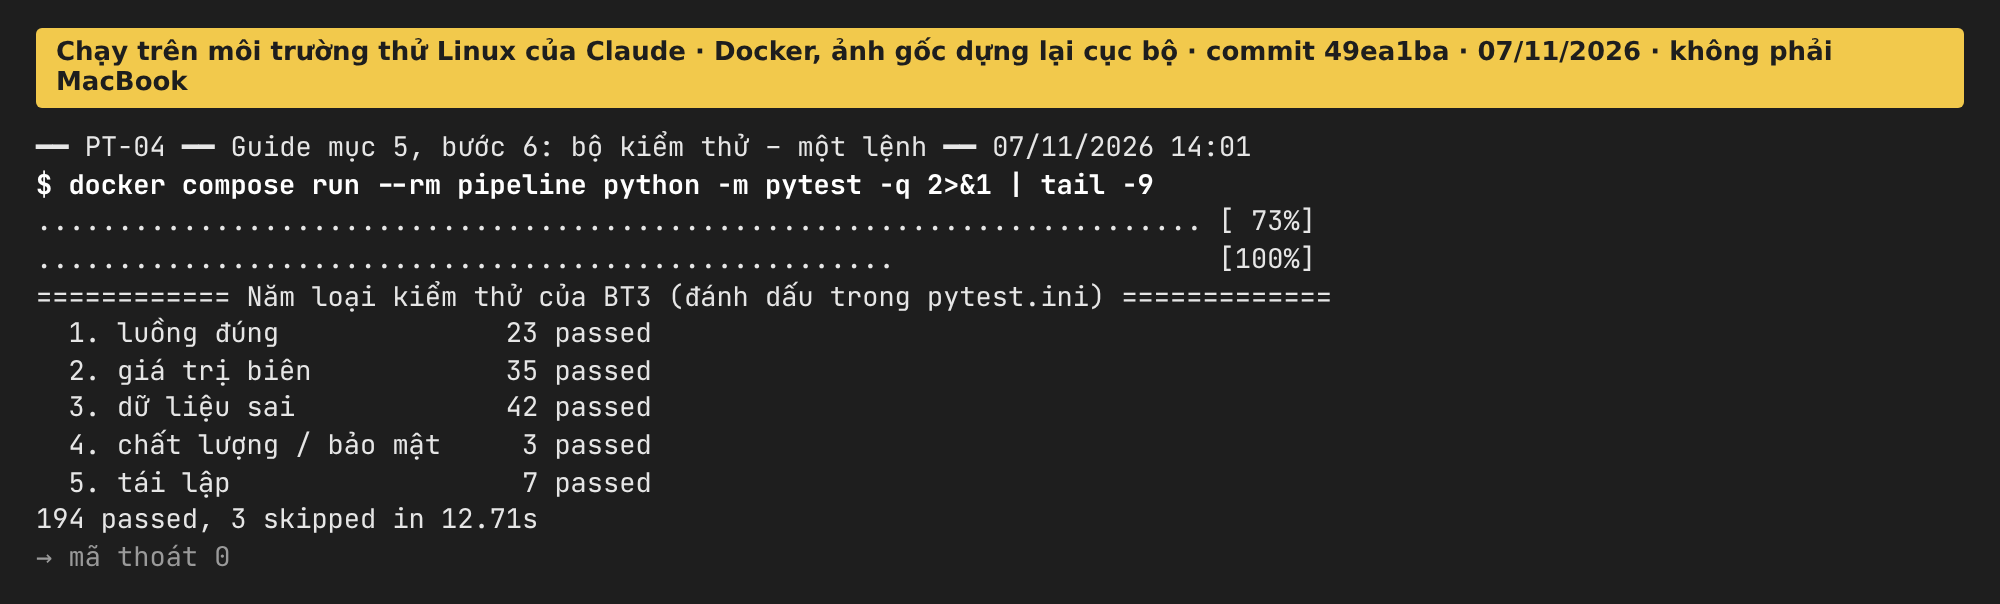
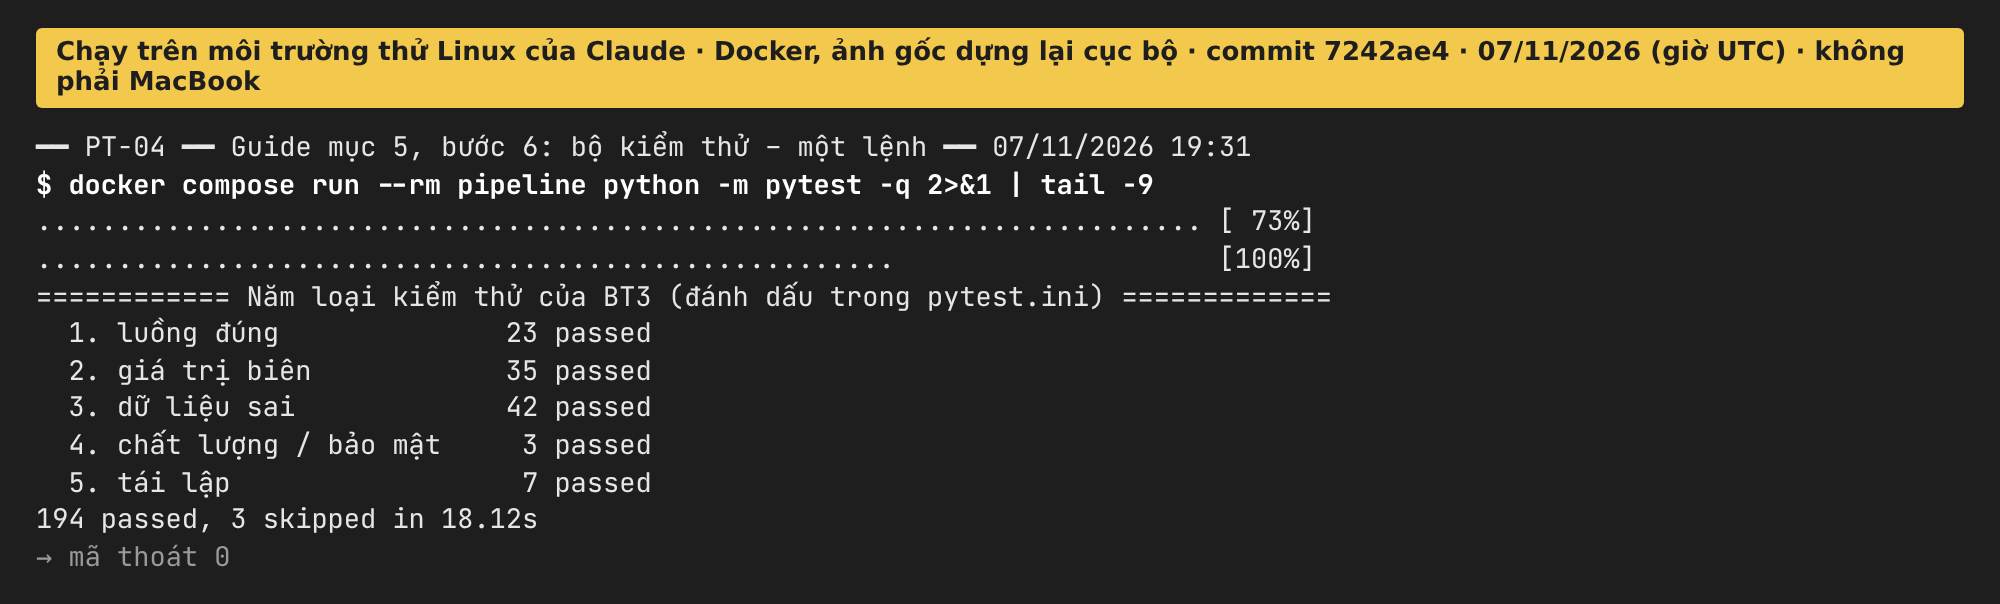
docs(bt3): 22 ảnh minh chứng từ một lần chạy liền ở commit 7242ae4, thêm ảnh pip-audit
Chạy script phép thử máy trắng trên môi trường thử (clone mới nhánh main ở 7242ae4): hai lệnh, tám bước kiểm tra,
lần chạy 1 (mã nguồn 574bfd0 + test case bản đang kiểm: TC-09, TC-12 FAIL), 12/12 test case PASS, chạy lại +0,
mất CSDL, và bước mới PT-08 `pip-audit -r requirements.txt` → "No known vulnerabilities found" (xác nhận BUG-17).
Ảnh TC-02, TC-12 có các bước mới (QL7-01, QT-14). docs/screenshots/README.md liệt kê từng ảnh và kết quả;
Test Report: bảng các lần chạy, tóm tắt lần chạy cuối của PT-01, link CI ở commit 7242ae4.

Claude-Session: https://claude.ai/code/session_01PMTm2ef48EpwJnyuXoDa6z

diff --git a/docs/screenshots/README.md b/docs/screenshots/README.md
@@ -1,23 +1,30 @@
 # Ảnh kết quả chạy – Bài tập 3
 
 Tên ảnh theo mã test case (slide buổi 14): `TC-xx.png` là lần chạy cuối của test case; `TC-xx-lan1-FAIL.png` là lần
-chạy đầu bị FAIL (trước khi sửa bug). `PT-xx-…` là các bước của phép thử máy trắng (`docs/test-report.md` mục 4,
-Deployment Guide mục 5).
+chạy 1 bị FAIL (mã nguồn trước khi sửa bug). `PT-xx-…` là các bước của phép thử máy trắng (`docs/test-report.md`
+mục 4, Deployment Guide mục 5) và của checklist bảo mật.
 
-**Cách tạo ảnh hiện có.** Lệnh chạy thật; đầu ra dòng lệnh được lưu thành tệp văn bản rồi **vẽ thành ảnh PNG** (không
-phải ảnh chụp màn hình), riêng `PT-06-dashboard.png` là ảnh chụp trình duyệt Chromium. Mỗi ảnh có nhãn vàng ghi nơi
-chạy, commit và ngày, để không lẫn với ảnh chụp trên MacBook. Các ảnh `PT-xx`, `TC-xx` là **một lần chạy liền** của
-script phép thử máy trắng (clone mới nhánh `main` ở commit `49ea1ba`, ngày 07/11/2026): 12/12 test case PASS, pytest
-194 passed, 3 skipped. Cùng lần đó làm lại lần chạy 1 trong Docker (mã nguồn `574bfd0`): TC-09, TC-12 FAIL như ảnh
-`…-lan1-FAIL.png`.
+**Cách tạo ảnh hiện có.** Toàn bộ 22 ảnh là **một lần chạy liền** của script phép thử máy trắng trên môi trường thử
+Linux của Claude, bằng Docker (hai ảnh gốc dựng lại cục bộ vì môi trường chặn registry): clone mới nhánh `main` ở
+commit `7242ae4`, ngày 07/11/2026 (giờ UTC). Lệnh chạy thật; đầu ra dòng lệnh được lưu thành tệp văn bản rồi **vẽ
+thành ảnh PNG** (không phải ảnh chụp màn hình), riêng `PT-06-dashboard.png` là ảnh chụp trình duyệt Chromium. Mỗi ảnh
+có nhãn vàng ghi nơi chạy, commit và ngày, để không lẫn với ảnh chụp trên MacBook.
 
-| Ảnh | Nội dung | Nơi chạy · cách tạo ảnh |
+| Ảnh | Nội dung | Kết quả |
 |---|---|---|
-| `TC-09-lan1-FAIL.png` | TC-09 lần 1 ở commit `574bfd0`: ngày `31/02/2026`, `2026-02-30` vẫn CLEAN, `v_reject` 0 dòng → BUG-15 | Claude, môi trường thử Linux (`.venv`) · đầu ra dòng lệnh vẽ thành ảnh |
-| `TC-12-lan1-FAIL.png` | TC-12 lần 1 ở commit `574bfd0`: kết nối dashboard dùng tài khoản `postgres`, đọc được `ops.stg_customer` → BUG-16 | như trên |
-| `PT-01-hai-lenh.png` … `PT-05-chay-lai.png`, `PT-07-mat-csdl.png` | Phép thử máy trắng: hai lệnh; healthy; dữ liệu mẫu; pytest; chạy lại +0; mất CSDL | Claude, môi trường thử Linux, Docker (ảnh gốc dựng lại cục bộ vì registry bị chặn), commit ghi trên nhãn · đầu ra dòng lệnh vẽ thành ảnh |
-| `TC-01.png` … `TC-12.png` | 12 test case chạy bằng `docker compose run --rm pipeline python -m tests.tc_bt3 TC-xx`, tất cả PASS | như trên |
-| `PT-06-dashboard.png` | Dashboard K1 đọc kho qua tài khoản `dash_reader` | Claude, Docker như trên · ảnh chụp trình duyệt Chromium |
+| `PT-01-hai-lenh.png` | Xóa dấu vết, clone vào thư mục trống, `cp .env.example .env`, `docker compose up -d --build` | mã thoát 0; db Healthy, pipeline Exited, dashboard Started |
+| `PT-02-healthy.png` | `docker compose ps -a`, `curl …/_stcore/health` | db, dashboard `Up (healthy)`; pipeline `Exited (0)`; `ok` |
+| `PT-03-du-lieu-mau.png` | Log pipeline, đếm `ops.stg_customer` theo trạng thái | 414 = 343 + 40 + 31; 88,41 → 95,79 |
+| `PT-04-pytest.png` | `docker compose run --rm pipeline python -m pytest -q` | 194 passed, 3 skipped; bảng năm loại |
+| `TC-09-lan1-FAIL.png`, `TC-12-lan1-FAIL.png` | Lần chạy 1: mã nguồn commit `574bfd0` (trước khi sửa) gắn vào ảnh Docker, test case của bản đang kiểm | TC-09 FAIL (ngày sai vẫn CLEAN → BUG-15); TC-12 FAIL (tài khoản của pipeline đọc được `ops` → BUG-16) |
+| `TC-01.png` … `TC-12.png` | `docker compose run --rm pipeline python -m tests.tc_bt3 TC-xx` – lần chạy cuối | 12/12 PASS |
+| `PT-05-chay-lai.png` | `docker compose up -d` lần hai | mọi bảng +0 |
+| `PT-06-dashboard.png` | Dashboard K1 đọc kho qua tài khoản `dash_reader` | 95,79 / 88,41 / 414 |
+| `PT-07-mat-csdl.png` | Dừng `db` rồi chạy pipeline (checklist mục 5; BUG-18 đã sửa) | câu báo chỉ lệnh `docker compose`, không lộ mật khẩu |
+| `PT-08-pip-audit.png` | `pip-audit -r requirements.txt` trong container `python:3.11-slim` (checklist mục 7; BUG-17 đã sửa) | No known vulnerabilities found |
 
-Em chạy lại toàn bộ trên MacBook bằng Docker Desktop rồi thay các ảnh cùng tên tệp bằng ảnh em chụp màn hình; khi
-đó cột "Nơi chạy · cách tạo ảnh" ghi "MacBook của em · ảnh chụp màn hình" và nhãn vàng không còn.
+Lần chạy 1 gốc (07/11/2026, `.venv` trên môi trường thử, test case khi đó) cho cùng kết quả: TC-09, TC-12 FAIL; khi
+đó kết nối dashboard dùng tài khoản `postgres`, trong Docker là `smartcrm` – đều là tài khoản của pipeline.
+
+Em chạy lại toàn bộ trên MacBook bằng Docker Desktop (script `chup-anh-bt3.sh`) rồi thay các ảnh cùng tên tệp bằng
+ảnh em chụp màn hình; khi đó đoạn "Cách tạo ảnh" ghi "MacBook của em · ảnh chụp màn hình" và nhãn vàng không còn.
